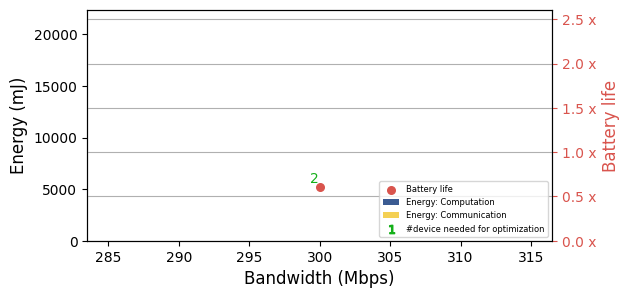
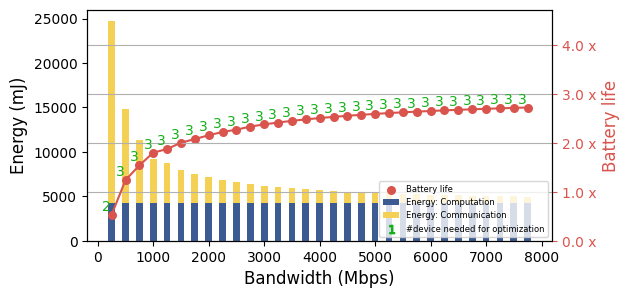
updated README.md

diff --git a/opt_wrapper.py b/opt_wrapper.py
@@ -14,14 +14,14 @@ class OPT_WRAPPER(object):
 
     # Input configs for the current execution
     configs = [
-        'faster-agx',
-        'faster-nano',
-        'yolor-agx',
-        'yolor-nano',
-        'yolox-agx',
-        'yolox-nano',
+        # 'faster-agx',
+        # 'faster-nano',
+        # 'yolor-agx',
+        # 'yolor-nano',
+        # 'yolox-agx',
+        # 'yolox-nano',
         'yolov4-agx',
-        'yolov4-nano'
+        # 'yolov4-nano'
     ]
 
     # benchmarks for optimization performance. Categorized by power mode. Unit: second

diff --git a/README.md b/README.md
@@ -1,19 +1,26 @@
 # NS Optimizer
 
-1. To find the optimized partition solutions and corresponding speed up rates, run `opt_wrapper.py`.
+A **NS optimizer** is a unit program that finds a partitioning strategy for a neuro-network model under some specified configurations. To find the best partitioning strategy across a range of data-transfer bandwidth for a model, an **optimizer wrapper** is needed to iterate through all scenarios.
+
+1. To find the optimized partition solution and corresponding speed up rate under specified bandwidth, run [opt_wrapper.py](opt_wrapper.py) with bandwidth modified to preferred value. 
    - For devices with memory constrains, use [opt_wrapper_mem.py](opt_wrapper_mem.py).
    - To optimize by battery life instead of execution time, use [opt_wrapper_battery.py](opt_wrapper_battery.py).
+   - For example, `'yolov4': [*range(250, 260, 250)],` specifies the bandwidth to 250 mbps.
+   - Results are stored in `testcases/model-device/part.csv` and `testcases/model-device/priority.csv`
+   - An NS Colorer can be used to visualize the results.  
+2. To find the optimized partition solutions and corresponding speed up rates across a range of bandwidth, run [opt_wrapper.py](opt_wrapper.py) with bandwidth modified to preferred range.
+   - For devices with memory constrains, use [opt_wrapper_mem.py](opt_wrapper_mem.py).
+   - To optimize by battery life instead of execution time, use [opt_wrapper_battery.py](opt_wrapper_battery.py).
+   - For example, `'yolov4': [*range(250, 1100, 250)],` specifies the bandwidth to 250, 500, 750, 1000 mbps.
+   - The results will be stored in [data](data). Note that the .csv files in `testcases/model-device/` directories records only the results under the largest bandwidth. 
+3. To analyze energy consumptions for each *partition solution* (recorded in [data](data)), run [power-infer.py](power-infer.py).
+4. To generate plots, go to the `PLT_*` directories and run `PYPLT_*.py`.
 
-2. To analyze energy consumptions for each *partition solution*, run `power-infer.py`.
-
-3. To generate plots, go to the `PLT_*` directories and run `PYPLT_*.py`.
-
-4. See [automation](automation)
 ---
 
 # NS Optimizer Wrappers
 
-The following guidelines illustrates how to use the wrappers on a neuro-network. 
+The following guidelines illustrates how to use the wrappers on a neuro-network model. 
 
 ### Inputs
 Create a folder under [testcases](testcases) by the following format:
@@ -84,5 +91,42 @@ memory_constrain = 1024*2 # MB
 ```
 ---
 
+## Example: Yolov4
+In this example, we will find the optimized partitioning strategies for Yolov4 across a range of data transfer bandwidth, and plot the battery life optimization graphs. We will use Jetson-AGX power mode 1 profiling data.
 
+The input files can be found in [yolov4-agx/1](testcases%2Fyolov4-agx%2F1). 
 
+### Default optimization
+1. Configer [opt_wrapper.py](opt_wrapper.py) so that other models are omitted. 
+```python
+# Device power mode while profiling, specifying the benchmarks
+POWER_MODE = "1"
+# Input configs for the current execution
+configs = [
+     # 'faster-agx',
+     # 'faster-nano',
+     # 'yolor-agx',
+     # 'yolor-nano',
+     # 'yolox-agx',
+     # 'yolox-nano',
+     'yolov4-agx',
+     # 'yolov4-nano'
+]
+```
+   - For memory constrained scenario, use [opt_wrapper_mem.py](opt_wrapper_mem.py) with memory constrains (Unit: MB). (same below)
+   - For battery life prioritized scenario, use [opt_wrapper_battery.py](opt_wrapper_battery.py). (same below)
+
+2. Adjust the data transfer bandwidth range as needed. The following is just an example. 
+```python
+# Bandwidths that the optimizer will run through. Categorized by device model. Unit: mbps
+bandwidths = {
+  'agx':
+      {
+       'yolov4': [*range(250, 2100, 250)],
+      }
+}
+```
+3. run `python3 opt_wrapper.py`. Check [data/yolov4-agx.csv](data%2Fyolov4-agx.csv) for results. 
+
+4. run `python3 power-infer.py`. 
+5. run `python3 PLT_energy/PYPLT_energy.py`. Check [yolov4-agx.png](PLT_energy%2F1%2Fyolov4-agx.png) for battery life optimization plots. 
